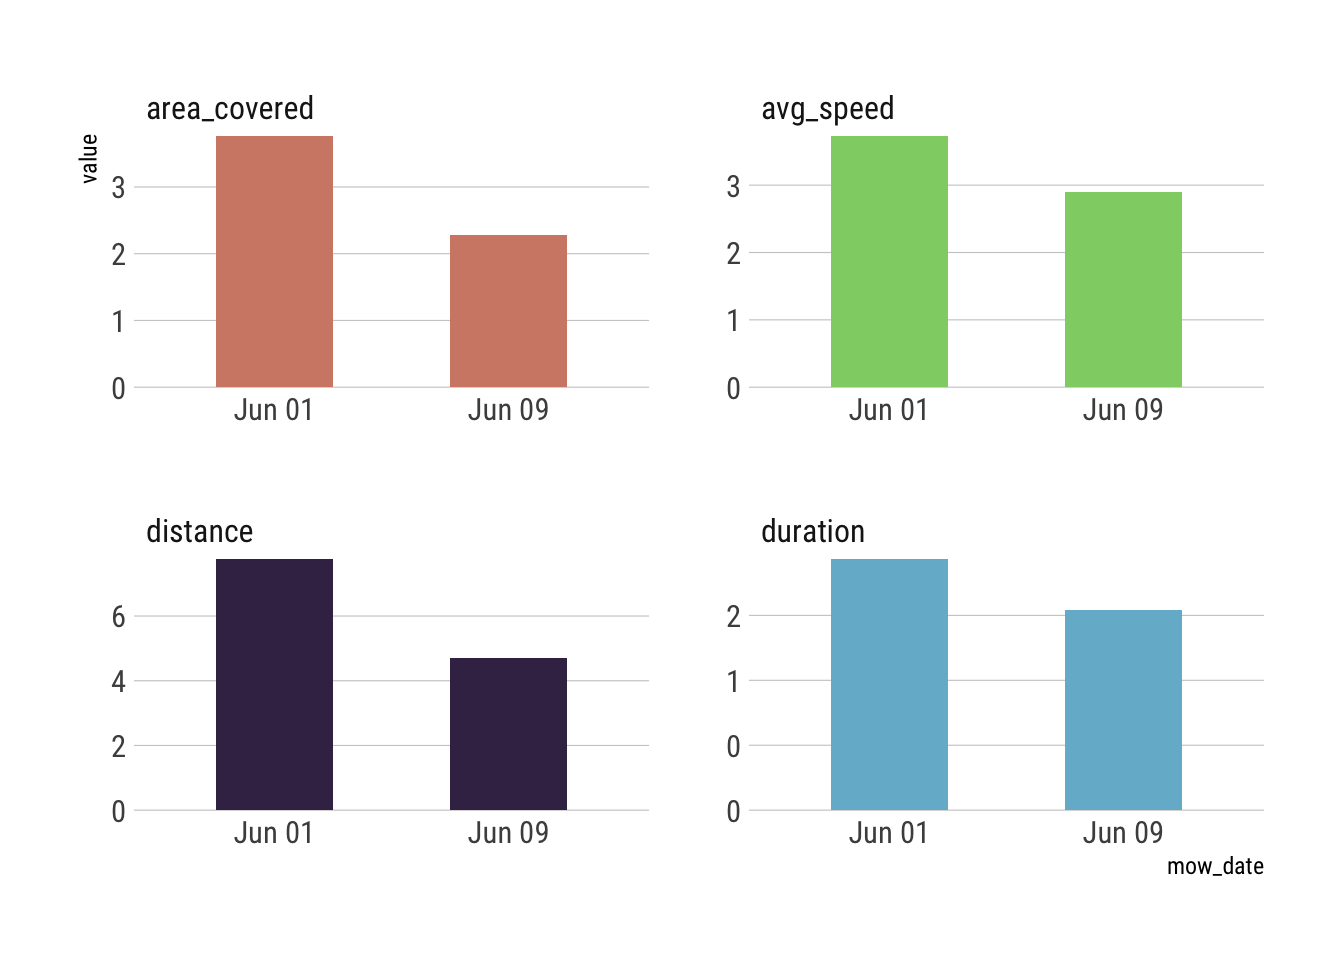
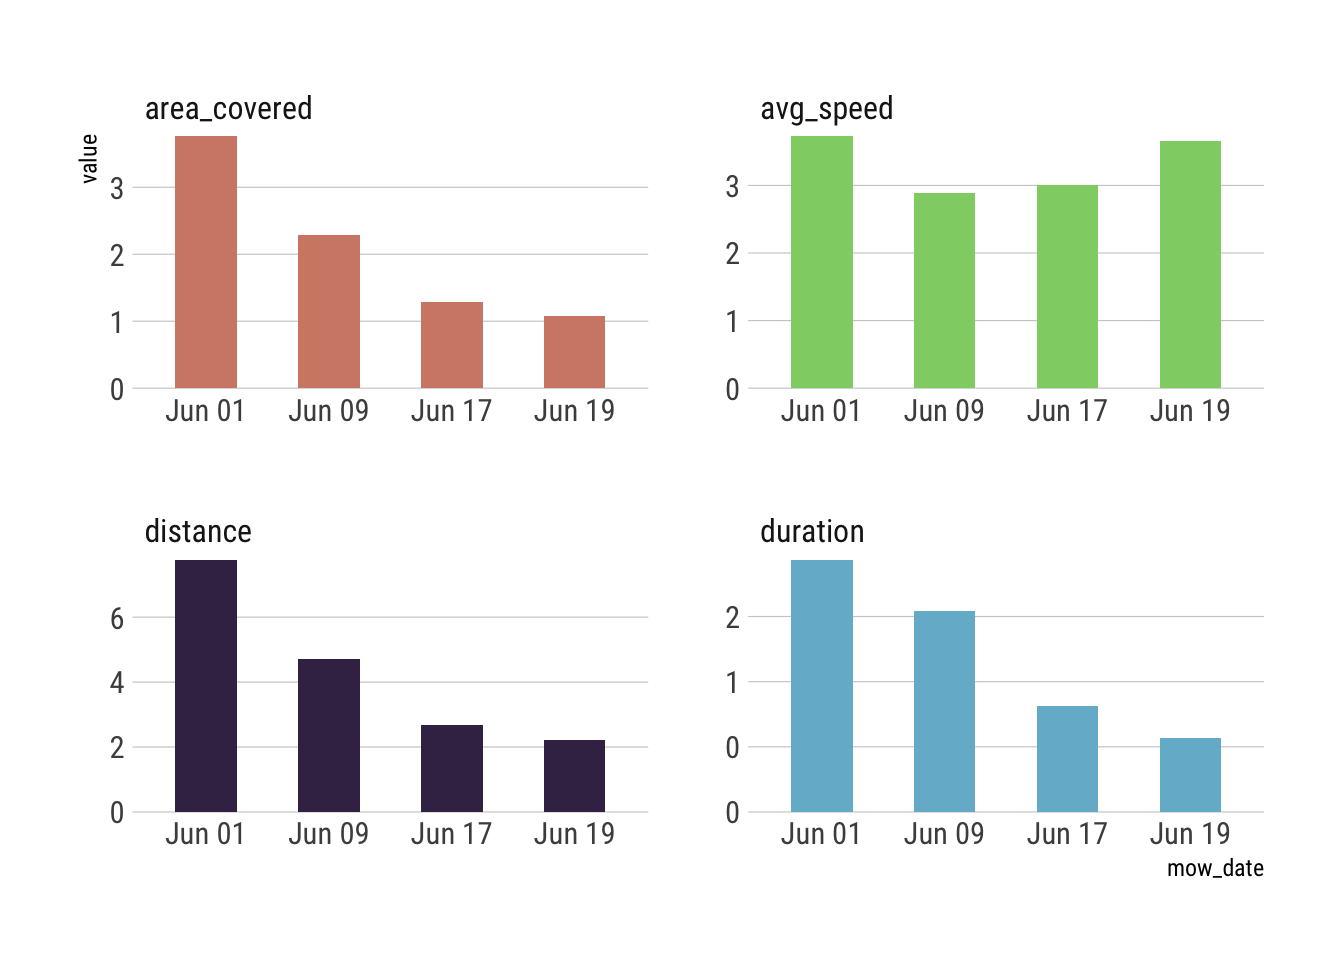
some rounding out the corners

diff --git a/README.md b/README.md
@@ -24,6 +24,13 @@ Ref:
 
 The following functions are implemented:
 
+  - `from_coredata_ts`: Convert timestampes from Apple “CoreData” format
+    to something usable
+  - `list_ios_backups`: List iOS backups available on this system
+  - `platform_ios_backup_dir`: List iOS backups available on this system
+  - `src_mowerplus`: Find and sync a copy of the latest MowerPlus
+    database file from an iOS backup
+
 ## Installation
 
 ``` r
@@ -47,13 +54,20 @@ library(tidyverse)
 
 # current version
 packageVersion("deere")
-## [1] '0.1.0'
+## [1] '0.2.0'
 ```
 
-### Sample from a recent mow
+### Sample from the latest mow
 
 ``` r
-mow_db <- src_mowerplus("28500cd31b9580aaf5815c695ebd3ea5f7455628")
+list_ios_backups()
+## # A tibble: 2 x 3
+##   path                                              modification_time          size
+##   <chr>                                             <dttm>              <fs::bytes>
+## 1 28500cd31b9580aaf5815c695ebd3ea5f7455628          2019-06-19 14:31:41       8.19K
+## 2 28500cd31b9580aaf5815c695ebd3ea5f7455628-20190601 2019-06-01 17:23:05       8.22K
+
+mow_db <- src_mowerplus()
 
 mow_db
 ## src:  sqlite 3.22.0 [/Users/hrbrmstr/Data/mowtrack.sqlite]
@@ -66,14 +80,14 @@ glimpse(tbl(mow_db, "ZMOWER"))
 ## Database: sqlite 3.22.0 [/Users/hrbrmstr/Data/mowtrack.sqlite]
 ## $ Z_PK                      <int> 1
 ## $ Z_ENT                     <int> 7
-## $ Z_OPT                     <int> 11
+## $ Z_OPT                     <int> 15
 ## $ ZDECKSIZEINCHES           <int> 48
 ## $ ZDISMISSEDFULLSERVICETASK <int> 0
 ## $ ZDISMISSEDPERIODICTASK    <int> 0
 ## $ ZSMARTCONNECTOR           <int> NA
 ## $ ZUSER                     <int> 1
 ## $ ZBATTERYCHARGE            <dbl> NA
-## $ ZENGINEHOURS              <dbl> 3.474705
+## $ ZENGINEHOURS              <dbl> 4.854714
 ## $ ZFULLSERVICEPERFORMED     <dbl> NA
 ## $ ZHMCLASTSEEN              <dbl> NA
 ## $ ZHMCOFFSET                <dbl> 0
@@ -92,26 +106,26 @@ glimpse(tbl(mow_db, "ZACTIVITY"))
 ## Observations: ??
 ## Variables: 20
 ## Database: sqlite 3.22.0 [/Users/hrbrmstr/Data/mowtrack.sqlite]
-## $ Z_PK           <int> 1, 2
-## $ Z_ENT          <int> 3, 3
-## $ Z_OPT          <int> 124, 93
-## $ ZMONTH         <int> 6, 6
-## $ ZYEAR          <int> 2019, 2019
-## $ ZMOWER         <int> 1, 1
-## $ ZUSER          <int> 1, 1
-## $ ZISCOMPLETE    <int> 1, 1
-## $ ZISMISSEDMOW   <int> 0, 0
-## $ ZLASTLOCATION  <int> 7016, 12548
-## $ ZCREATEDAT     <dbl> 581100260, 581778616
-## $ ZENGINEHOURS   <dbl> NA, NA
-## $ ZAREACOVERED   <dbl> 3.761875, 2.286811
-## $ ZAVERAGESPEED  <dbl> 3.727754, 2.894269
-## $ ZDISTANCEMOWED <dbl> 7.758894, 4.716564
-## $ ZMOWINGTIME    <dbl> 6960.000, 5548.939
-## $ ZNOTES         <chr> "First mow!", NA
-## $ ZINTERVALNAME  <chr> NA, NA
-## $ ZTYPE          <chr> NA, NA
-## $ ZUUID          <blob> blob[238 B], blob[238 B]
+## $ Z_PK           <int> 1, 2, 3, 4
+## $ Z_ENT          <int> 3, 3, 3, 3
+## $ Z_OPT          <int> 124, 93, 52, 36
+## $ ZMONTH         <int> 6, 6, 6, 6
+## $ ZYEAR          <int> 2019, 2019, 2019, 2019
+## $ ZMOWER         <int> 1, 1, 1, 1
+## $ ZUSER          <int> 1, 1, 1, 1
+## $ ZISCOMPLETE    <int> 1, 1, 1, 1
+## $ ZISMISSEDMOW   <int> 0, 0, 0, 0
+## $ ZLASTLOCATION  <int> 7016, 12548, 15500, 17514
+## $ ZCREATEDAT     <dbl> 581100260, 581778616, 582506930, 582659215
+## $ ZENGINEHOURS   <dbl> NA, NA, NA, NA
+## $ ZAREACOVERED   <dbl> 3.761875, 2.286811, 1.292296, 1.078715
+## $ ZAVERAGESPEED  <dbl> 3.727754, 2.894269, 3.011241, 3.650042
+## $ ZDISTANCEMOWED <dbl> 7.758894, 4.716564, 2.665370, 2.224857
+## $ ZMOWINGTIME    <dbl> 6960.000, 5548.939, 2933.049, 2034.981
+## $ ZNOTES         <chr> "First mow!", NA, NA, NA
+## $ ZINTERVALNAME  <chr> NA, NA, NA, NA
+## $ ZTYPE          <chr> NA, NA, NA, NA
+## $ ZUUID          <blob> blob[238 B], blob[238 B], blob[238 B], blob[238 B]
 
 tbl(mow_db, "ZACTIVITY")%>%
   collect() -> activity
@@ -195,8 +209,8 @@ arrange(sessions, ts) %>%
 
 | Lang | \# Files |  (%) | LoC |  (%) | Blank lines |  (%) | \# Lines |  (%) |
 | :--- | -------: | ---: | --: | ---: | ----------: | ---: | -------: | ---: |
-| Rmd  |        1 | 0.17 |  74 | 0.69 |          31 | 0.69 |       39 | 0.45 |
-| R    |        5 | 0.83 |  33 | 0.31 |          14 | 0.31 |       48 | 0.55 |
+| Rmd  |        1 | 0.12 |  75 | 0.53 |          33 | 0.56 |       43 | 0.38 |
+| R    |        7 | 0.88 |  67 | 0.47 |          26 | 0.44 |       69 | 0.62 |
 
 ## Code of Conduct
 

diff --git a/NEWS.md b/NEWS.md
@@ -1,2 +1,8 @@
+0.2.0
+* Functions attempt to auto-derive the iOS backup location on macOS and legacy Windows operating systems.
+* Uses the `{fs}` pacakge for all file/directory operations
+* Provides a `list_ios_backups()` function so you can see all the iOS backups available
+* `src_mowerplus()` defaults to using the most recent iOS backup (if it exists) if unspecified
+
 0.1.0 
 * Initial release
